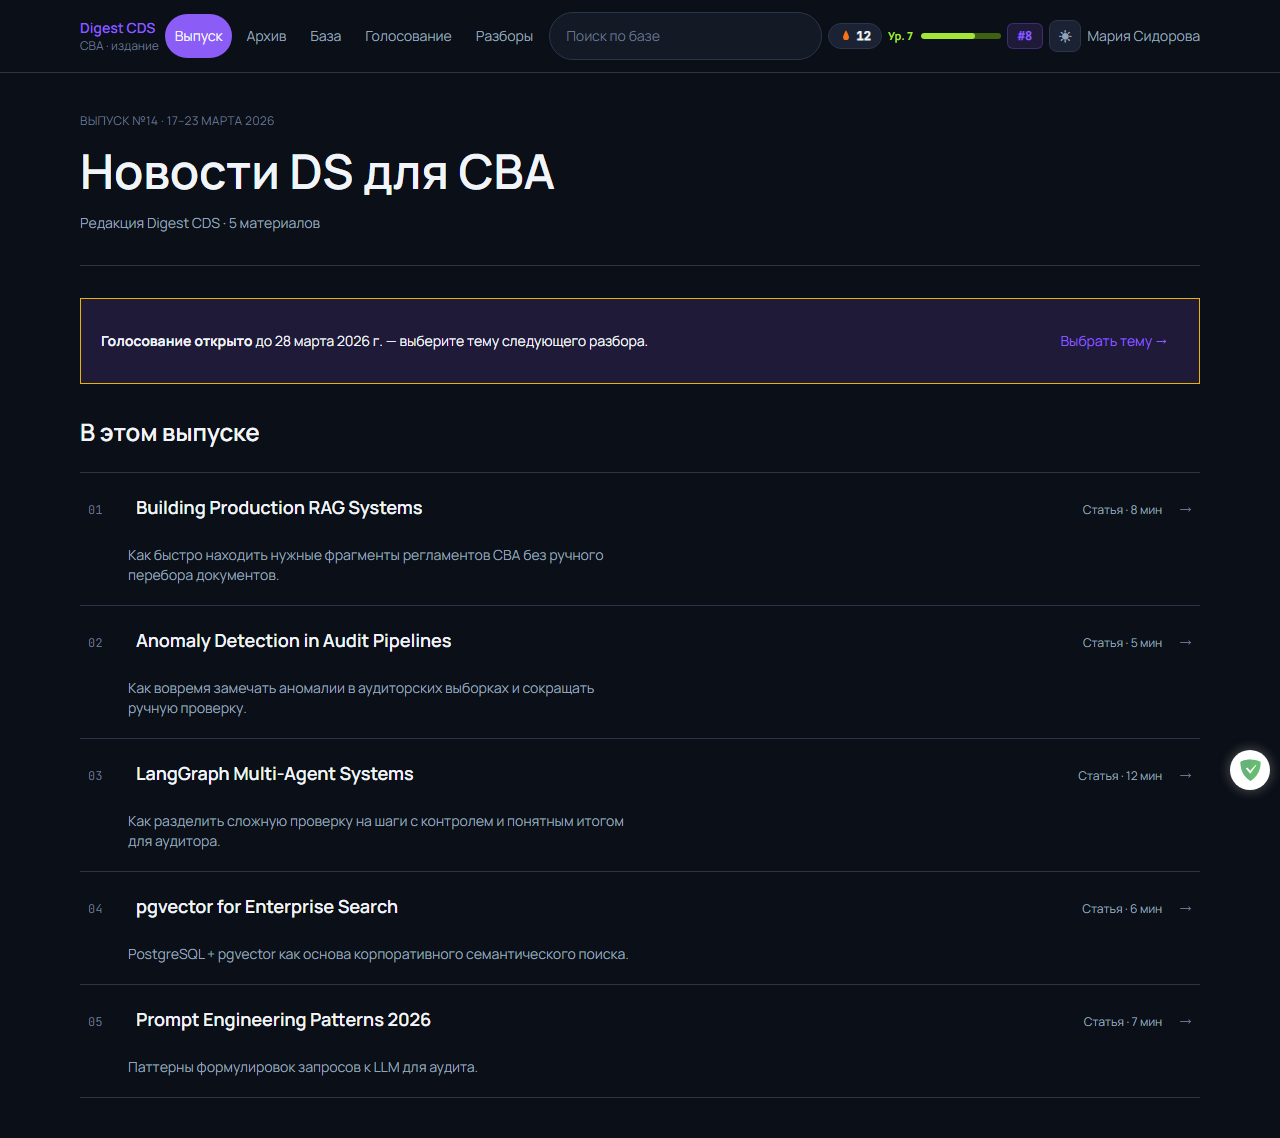
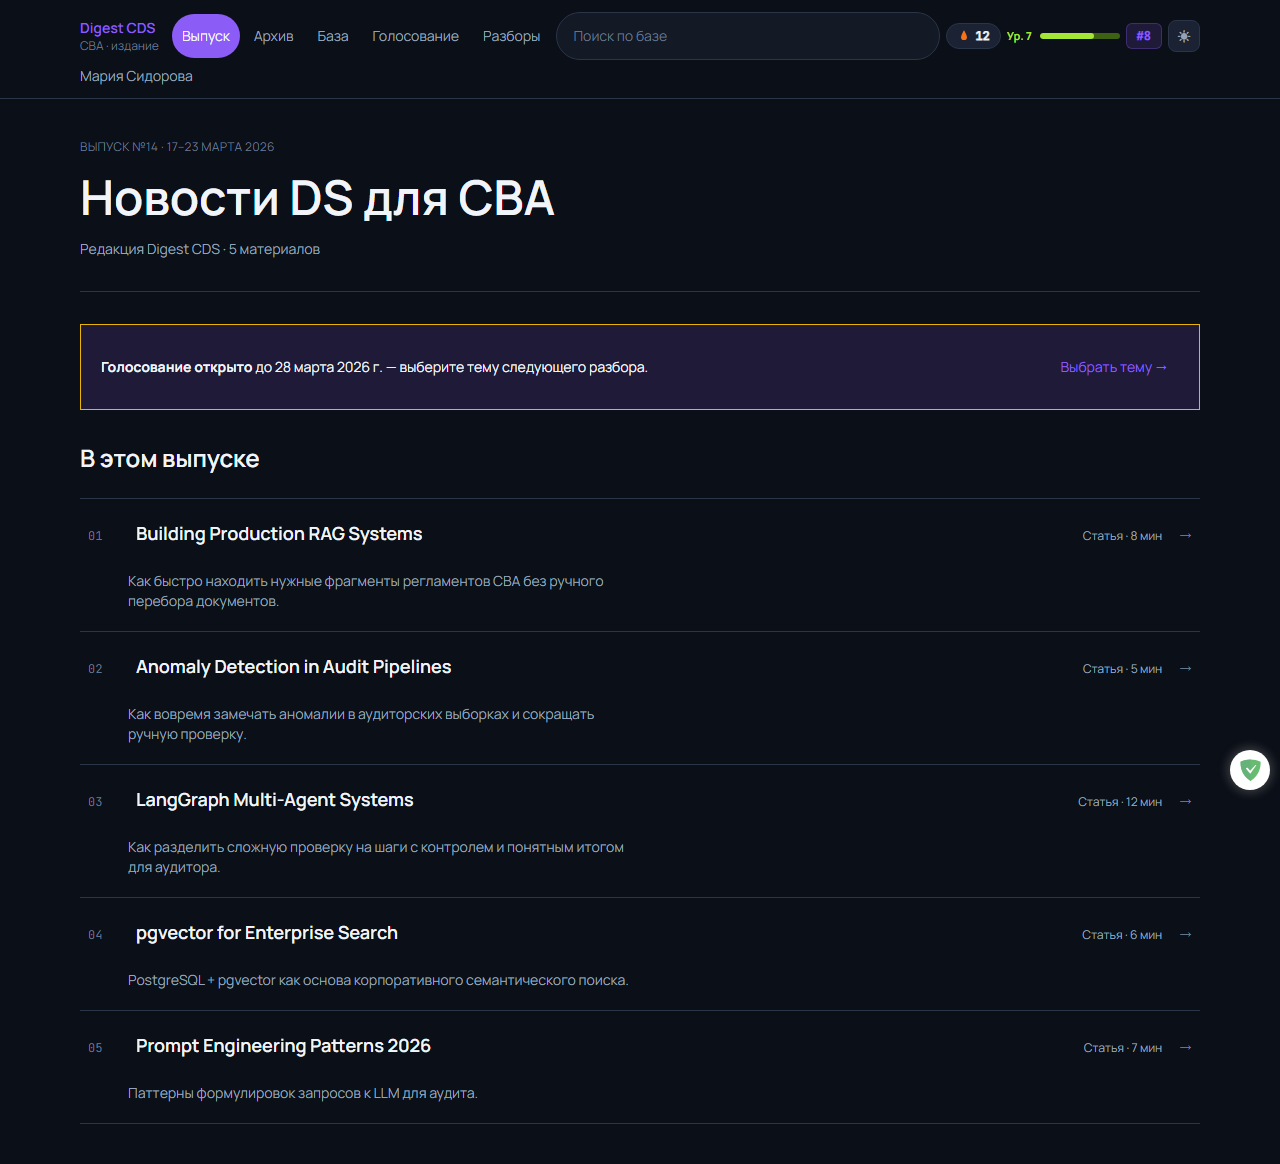
fix(web): guarantee header search min width so gamification widgets cannot squeeze it
- SearchPill reserves 280px at sm+, wrapping to its own row when the header is tight

- keeps the desktop search-width contract stable across font metrics

diff --git a/web/src/components/SearchPill.jsx b/web/src/components/SearchPill.jsx
@@ -25,7 +25,11 @@ export default function SearchPill() {
   }
 
   return (
-    <form role="search" onSubmit={onSubmit} className="min-w-0 flex-1 basis-[12rem] sm:max-w-xs md:max-w-sm">
+    <form
+      role="search"
+      onSubmit={onSubmit}
+      className="min-w-0 flex-1 basis-[12rem] sm:min-w-[280px] sm:max-w-sm"
+    >
       <label htmlFor={inputId} className="sr-only">
         Поиск Digest CDS
       </label>
